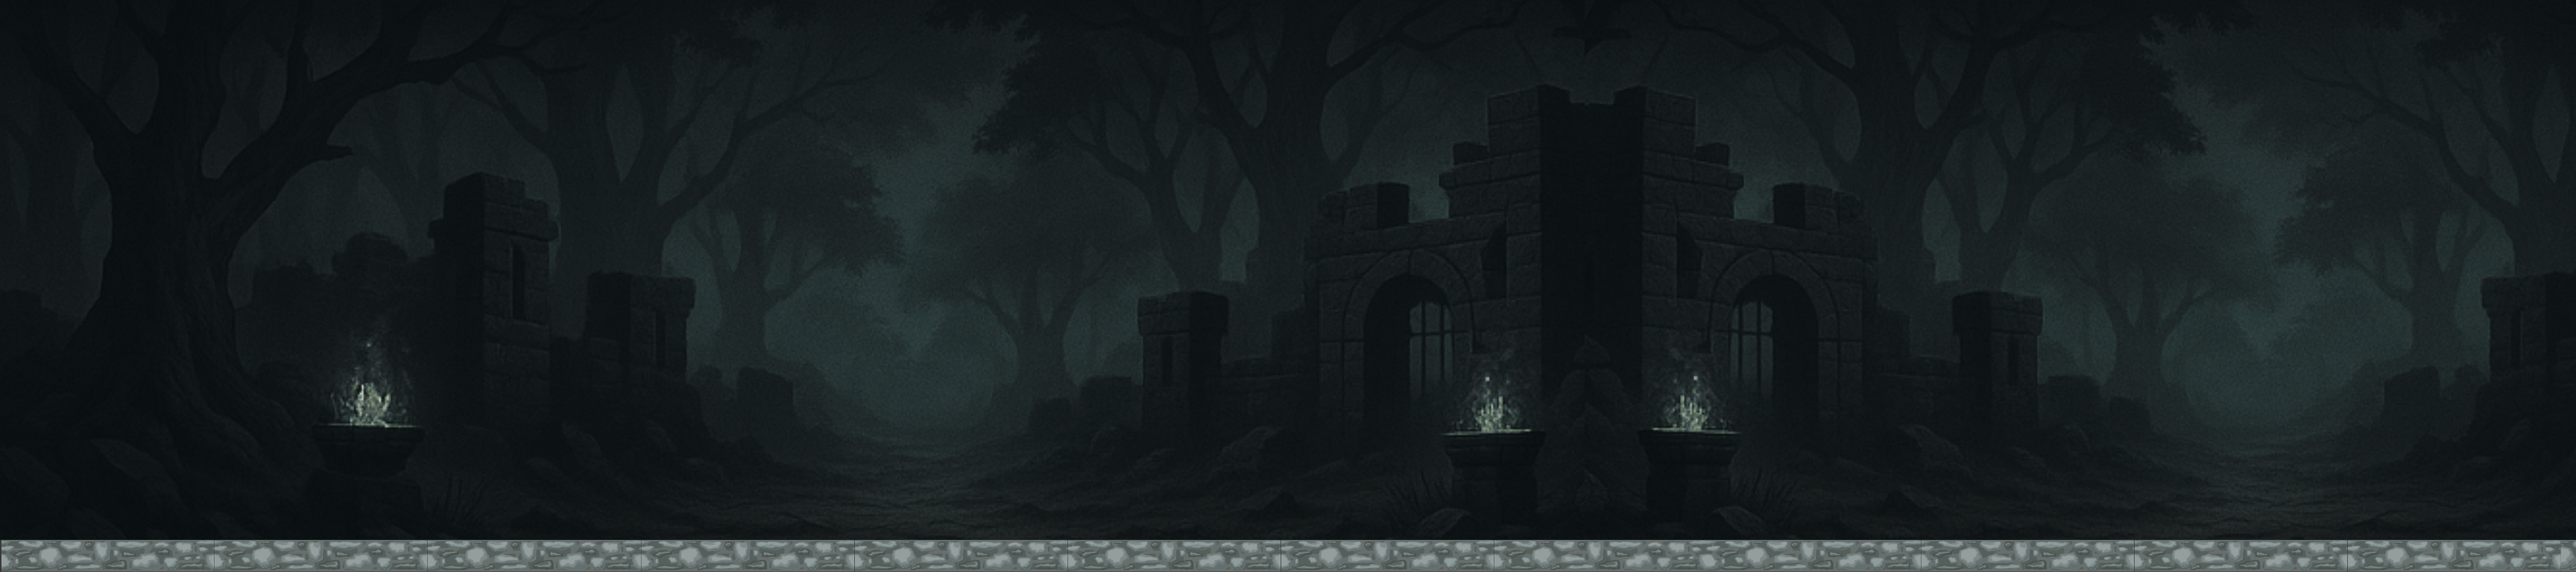
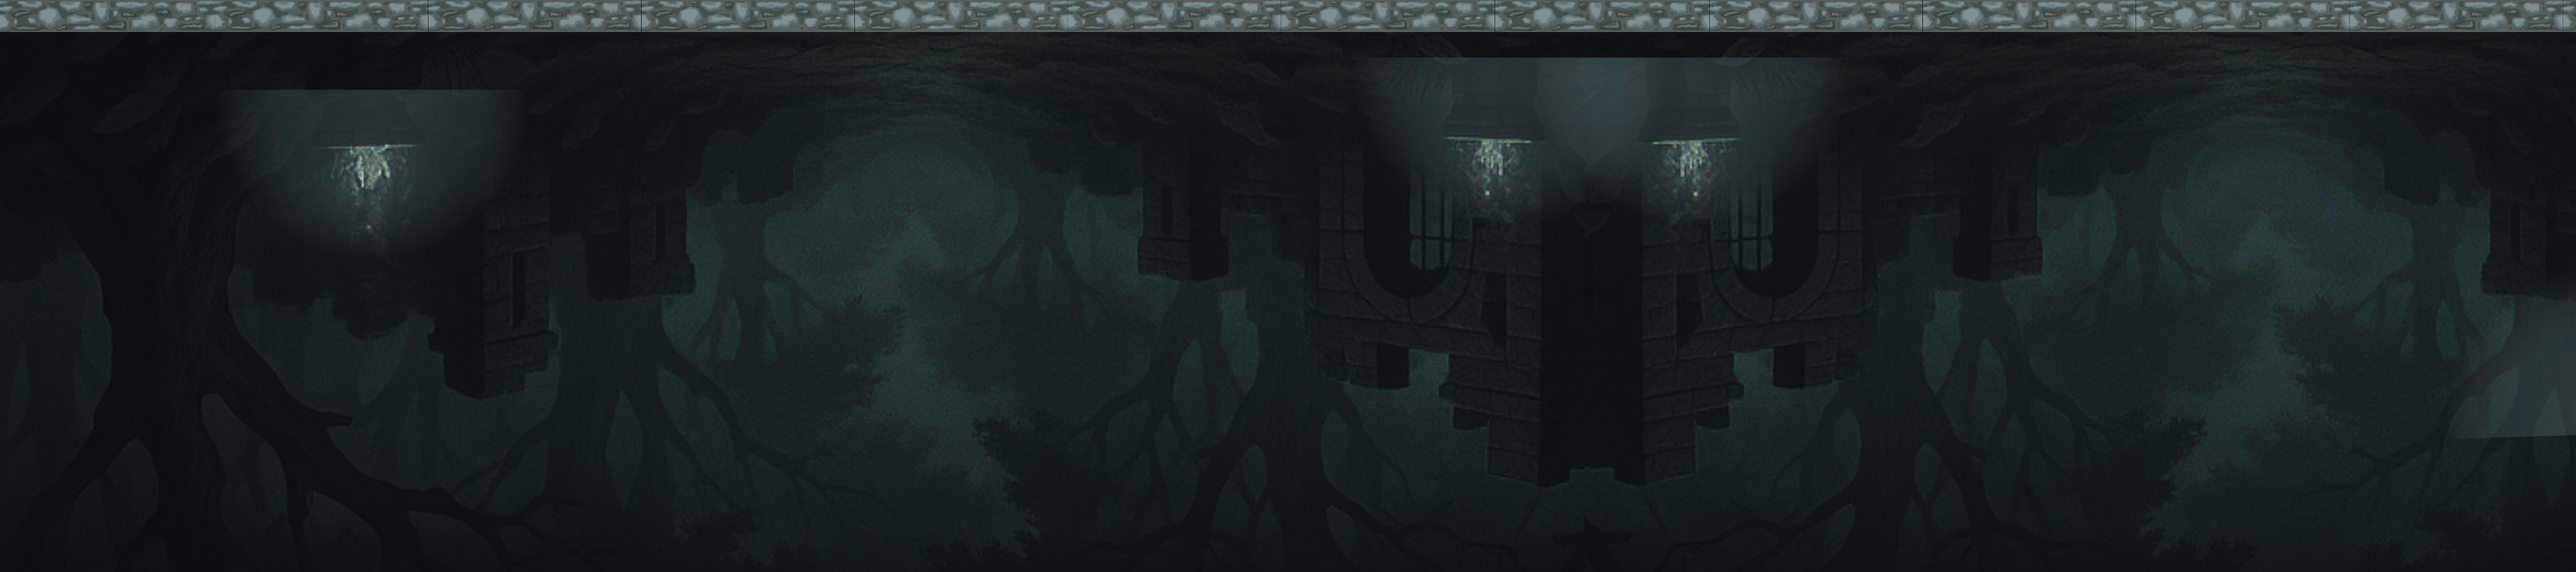
ndnd

diff --git a/ciudadinversa.cpp b/ciudadinversa.cpp
@@ -2,7 +2,7 @@
 #include "mapawidget.h"
 #include "ObjetosYColisiones.h"
 #include "jugador.h"
-#include "Enemigo.h"
+#include "enemigo.h"
 #include "BringerOfDeath.h"
 #include "CombateManager.h"
 #include <QRandomGenerator>
@@ -26,6 +26,7 @@ static constexpr float WINDOW_H    = 650.0f;
 static constexpr float FPS         = 60.0f;
 static constexpr float PLAT_WIDTH  = 200.0f;
 static constexpr float PLAT_HEIGHT = 20.0f;
+static constexpr float GROUND_H    = 40.0f;
 
 // HUD
 static constexpr float HUD_W = 350.0f;
@@ -109,7 +110,19 @@ ciudadinversa::ciudadinversa(entidad*   jugador,
 
 
     // Suelo (collisionOnly = true)
-    m_colManager->addRect({0.0f, m_bgHeight-40.0f,float(m_bgWidth*2),40.0f}, Qt::NoBrush, true);
+    if (m_inverted) {
+        // techo como “suelo” cuando estamos invertidos
+        m_colManager->addRect(
+            { 0.0f,  0.0f, float(m_bgWidth*2), GROUND_H },
+            Qt::NoBrush, true
+            );
+    } else {
+        // suelo normal abajo
+        m_colManager->addRect(
+            { 0.0f,  m_bgHeight - GROUND_H, float(m_bgWidth*2), GROUND_H },
+            Qt::NoBrush, true
+            );
+    }
 
 
 
@@ -133,11 +146,19 @@ ciudadinversa::ciudadinversa(entidad*   jugador,
 
 
 
-
-
-
-
-    m_colManager->addRect({0.0f, m_bgHeight-40.0f,float(m_bgWidth*2),40.0f}, Qt::NoBrush, true);
+    if (m_inverted) {
+        // techo como “suelo” cuando estamos invertidos
+        m_colManager->addRect(
+            { 0.0f,  0.0f, float(m_bgWidth*2), GROUND_H },
+            Qt::NoBrush, true
+            );
+    } else {
+        // suelo normal abajo
+        m_colManager->addRect(
+            { 0.0f,  m_bgHeight - GROUND_H, float(m_bgWidth*2), GROUND_H },
+            Qt::NoBrush, true
+            );
+    }
 
     // ---- Jugador ----
     if(m_player){
@@ -145,6 +166,13 @@ ciudadinversa::ciudadinversa(entidad*   jugador,
         m_player->transform().setPosition(
             m_spawnPos.x(), m_spawnPos.y());
         m_player->setOnGround(true);
+
+        // En el constructor de ciudadinversa:
+        float g = 980.0f;
+        if (m_inverted)
+            m_player->fisica().setGravity(+g);  // gravedad hacia arriba
+        else
+            m_player->fisica().setGravity(-g);  // gravedad hacia abajo
 
         m_playerItem = new QGraphicsPixmapItem;
         m_playerItem->setZValue(3);
@@ -331,24 +359,30 @@ void ciudadinversa::onFrame()
     }
 
     // ——— Entrada salto + movimiento horiz ———
-    if (m_jumpRequested && m_player->isOnGround()) {
-        constexpr float JUMP_VY = -500.0f;
+    // 1) Grounded en suelo o en techo invertido
+    bool grounded = m_inverted
+                        ? (m_player->transform().getPosition().y() <= GROUND_H + 1.0f)
+                        : m_player->isOnGround();
+
+    // 2) Si solicitaron salto y estamos grounded
+    if (m_jumpRequested && grounded) {
         auto v = m_player->fisica().velocity();
+        float JUMP_VY = -500.0f;          // **SIEMPRE** negativo
         m_player->fisica().setVelocity(v.x(), JUMP_VY);
         m_player->setOnGround(false);
         m_jumpRequested = false;
     }
+
+    // 3) Movimiento horizontal
     float vx = 0.0f;
     if (!m_deathScheduled) {
         if (m_moveLeft)  vx = -160.0f;
         if (m_moveRight) vx =  160.0f;
         if (m_run && vx != 0.0f) vx *= 2.0f;
     }
-    m_player->fisica().setVelocity(
-        vx,
-        m_player->fisica().velocity().y()
-        );
-
+    m_player->fisica().setVelocity(vx,
+                                   m_player->fisica().velocity().y()
+                                   );
     // ——— Actualizar jugador + colisiones ———
     m_player->actualizar(m_dt);
     QSize sprSz = m_player->sprite().getSize();
@@ -397,8 +431,18 @@ void ciudadinversa::onFrame()
             .scaled(sprSz, Qt::KeepAspectRatio, Qt::SmoothTransformation)
         );
     QPointF footPos = m_player->transform().getPosition();
+
+    // --- flip vertical si estamos invertidos ---
+    if (m_inverted) {
+        pix = pix.transformed(QTransform().scale(1, -1));
+        // anclar por la parte superior del sprite
+        m_playerItem->setOffset(-pix.width()/2.0, 0);
+    } else {
+        // anclar por la parte inferior en modo normal
+        m_playerItem->setOffset(-pix.width()/2.0, -pix.height());
+    }
+
     m_playerItem->setPixmap(pix);
-    m_playerItem->setOffset(-pix.width()/2.0, -pix.height());
     m_playerItem->setPos(footPos);
     m_view->centerOn(footPos);
 

diff --git a/mainwindow.cpp b/mainwindow.cpp
@@ -28,13 +28,13 @@ MainWindow::MainWindow(QWidget *parent)
 {
     setFixedSize(950, 650);
     ui->setupUi(this);
-    pantallaInicio = new PantallaInicio(this);
-    connect(pantallaInicio, &PantallaInicio::iniciarJuegoPresionado, this, [=]() {
-        if (!menuOpciones) {
-            menuOpciones = new MenuOpciones(this);
-            connect(menuOpciones, &MenuOpciones::nuevaPartida, this, [=]() {
-                pantallaCarga = new PantallaCarga(this);
-                connect(pantallaCarga, &PantallaCarga::cargaCompletada, this, [=]() {
+    // pantallaInicio = new PantallaInicio(this);
+    // connect(pantallaInicio, &PantallaInicio::iniciarJuegoPresionado, this, [=]() {
+    //     if (!menuOpciones) {
+    //         menuOpciones = new MenuOpciones(this);
+    //         connect(menuOpciones, &MenuOpciones::nuevaPartida, this, [=]() {
+    //             pantallaCarga = new PantallaCarga(this);
+    //             connect(pantallaCarga, &PantallaCarga::cargaCompletada, this, [=]() {
                     m_player = new Jugador();
                     m_player->sprite().loadFrames(SpriteState::Walking,":/resources/0_Blood_Demon_Walking_",24);
                     m_player->sprite().loadFrames(SpriteState::Idle,":/resources/0_Blood_Demon_Idle_",16);
@@ -68,25 +68,25 @@ MainWindow::MainWindow(QWidget *parent)
 
                     //     connect(segundoVideo, &VideoIntro::videoTerminado, this, [=]() {
 
-                    cargarNivel("Tutorial");
+                    cargarNivel("CiudadInversa");
 
 
-                        });
+    //                     });
 
-                      //   mostrarPantalla(segundoVideo);
-                  //  });
+    //                   //   mostrarPantalla(segundoVideo);
+    //               //  });
 
-                 //  mostrarPantalla(primerVideo);
+    //              //  mostrarPantalla(primerVideo);
 
-            // });
+    //         // });
 
-              // mostrarPantalla(pantallaCarga);
-            });
-        }
-        mostrarPantalla(menuOpciones);
-    });
+    //           // mostrarPantalla(pantallaCarga);
+    //         });
+    //     }
+    //     mostrarPantalla(menuOpciones);
+    // });
 
-    mostrarPantalla(pantallaInicio);
+    // mostrarPantalla(pantallaInicio);
 }
 
 MainWindow::~MainWindow()

diff --git a/componentefisico.h b/componentefisico.h
@@ -1,24 +1,34 @@
 #ifndef COMPONENTEFISICO_H
 #define COMPONENTEFISICO_H
+
 #include "tranformacion.h"
 #include <QPointF>
 
-class componentefisico{
-
+class componentefisico {
 public:
     explicit componentefisico(tranformacion *t);
     componentefisico(const componentefisico &o);
+
     void setSpeed(float pxPerSecond);
     void actualizar(float dt);
     QPointF velocity() const;
     void setDirection(int dir);
     void setVelocity(float vx, float vy);
+
+    /**
+     * Establece la aceleración de la gravedad vertical (px/s²).
+     * Valores negativos tiran hacia arriba, positivos hacia abajo.
+     */
+    void setGravity(float g) { m_gravity = g; }
+
 private:
     tranformacion *m_transform;
     QPointF         m_velocity;
     float           m_speed;
     int             m_direction;
-};
 
+    // Aceleración de la gravedad (px/s²). Negativo = hacia arriba, positivo = hacia abajo
+    float           m_gravity = -980.0f;
+};
 
 #endif // COMPONENTEFISICO_H

diff --git a/tutorialscene.cpp b/tutorialscene.cpp
@@ -71,7 +71,7 @@ TutorialScene::TutorialScene(entidad *jugadorPrincipal, MainWindow *mainWindow, 
     activateWindow();                  // Hace visible y activa esta ventana
     setFocus(Qt::OtherFocusReason);   // Fuerza el foco del teclado aquí
 
-    QPixmap pixFondoOriginal(":/resources/templo_olvido.png");
+    QPixmap pixFondoOriginal(":/resources/templo_silencio2.png");
     if (pixFondoOriginal.isNull()) {
         qWarning() << "[TutorialScene] Error al cargar :/resources/templo_silencio.png";
     }

diff --git a/componentefisico.cpp b/componentefisico.cpp
@@ -44,9 +44,14 @@ void componentefisico::setDirection(int dir)
 
 void componentefisico::actualizar(float dt)
 {
+    // 1) Aplica la aceleración de la gravedad sobre la velocidad vertical
+    m_velocity.setY(m_velocity.y() + m_gravity * dt);
+
+    // 2) Integra la posición normalmente
     if (m_transform) {
         QPointF pos = m_transform->getPosition();
         pos += m_velocity * dt;
         m_transform->setPosition(pos.x(), pos.y());
     }
 }
+

diff --git a/entidad.h b/entidad.h
@@ -45,7 +45,7 @@ private:
     bool   m_isJumping;
     float  m_verticalVelocity;
     float  m_groundY;
-    static constexpr float GRAVITY = 800.0f;
+    static constexpr float GRAVITY = -800.0f;
     static constexpr float JUMP_VELOCITY = 450.0f;
     bool   m_facingLeft;
 

diff --git a/ciudadinversa.h b/ciudadinversa.h
@@ -92,4 +92,7 @@ private:
     /* ─────────── UI extra ─────────── */
     MapaWidget*          m_mapaRegiones   = nullptr;
     QString              m_currentRegion;
+
+        bool m_inverted = true;
+
 };

diff --git a/ObjetosYColisiones.cpp b/ObjetosYColisiones.cpp
@@ -1,6 +1,6 @@
 #include "ObjetosYColisiones.h"
 #include "entidad.h"
-#include "Enemigo.h"
+#include "enemigo.h"
 #include <QPointF>
 #include <QGraphicsScene>
 ObjetosYColisiones::ObjetosYColisiones(QGraphicsScene* scene, QObject* parent)

diff --git a/nivelraicesolvidadas.cpp b/nivelraicesolvidadas.cpp
@@ -15,7 +15,7 @@
 #include <algorithm>
 #include <QDebug>
 #include "mainwindow.h"
-#include "Demon.h"
+#include "demon.h"
 
 // ---- Constantes generales --------------------------------
 static constexpr float WINDOW_W    = 950.0f;

diff --git a/nivelraicesolvidadas.h b/nivelraicesolvidadas.h
@@ -11,7 +11,7 @@
 #include <QGraphicsRectItem>
 #include <QGraphicsTextItem>
 #include <QVector>
-#include "Fireball.h"
+#include "fireball.h"
 #include "ObjetosYColisiones.h"
 #include "enemigo.h"
 #include "entidad.h"

diff --git a/maquinadelolvido.h b/maquinadelolvido.h
@@ -1,0 +1,10 @@
+#ifndef MAQUINADELOLVIDO_H
+#define MAQUINADELOLVIDO_H
+
+class maquinadelolvido
+{
+public:
+    maquinadelolvido();
+};
+
+#endif // MAQUINADELOLVIDO_H

diff --git a/mentevacia.h b/mentevacia.h
@@ -1,0 +1,10 @@
+#ifndef MENTEVACIA_H
+#define MENTEVACIA_H
+
+class mentevacia
+{
+public:
+    mentevacia();
+};
+
+#endif // MENTEVACIA_H
